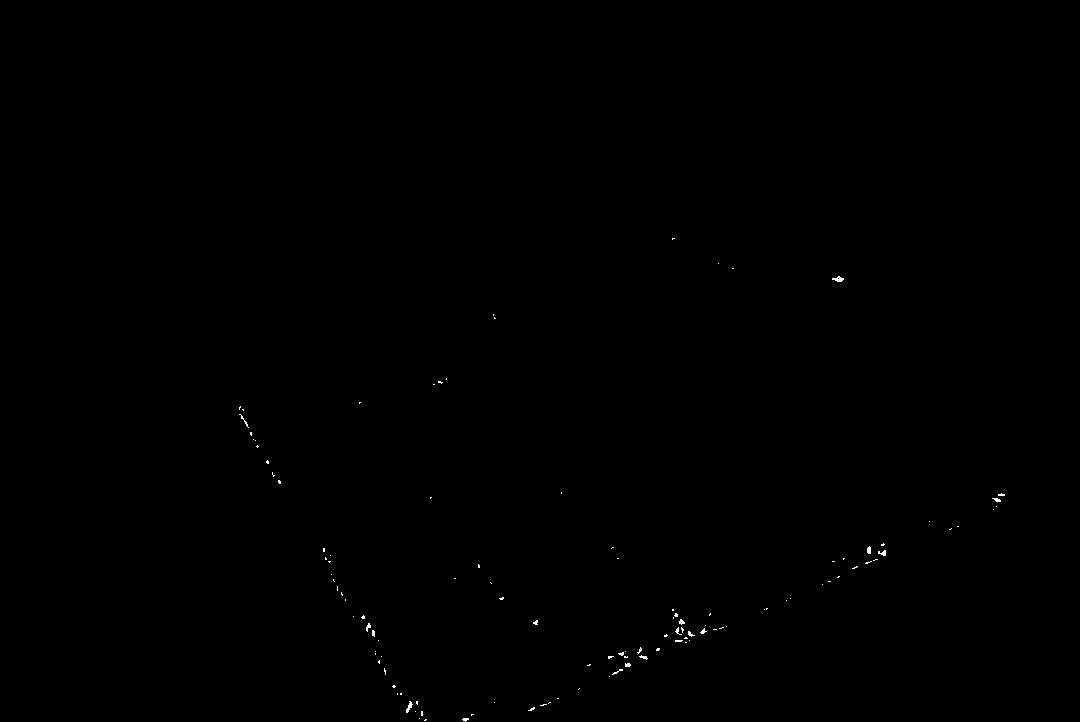
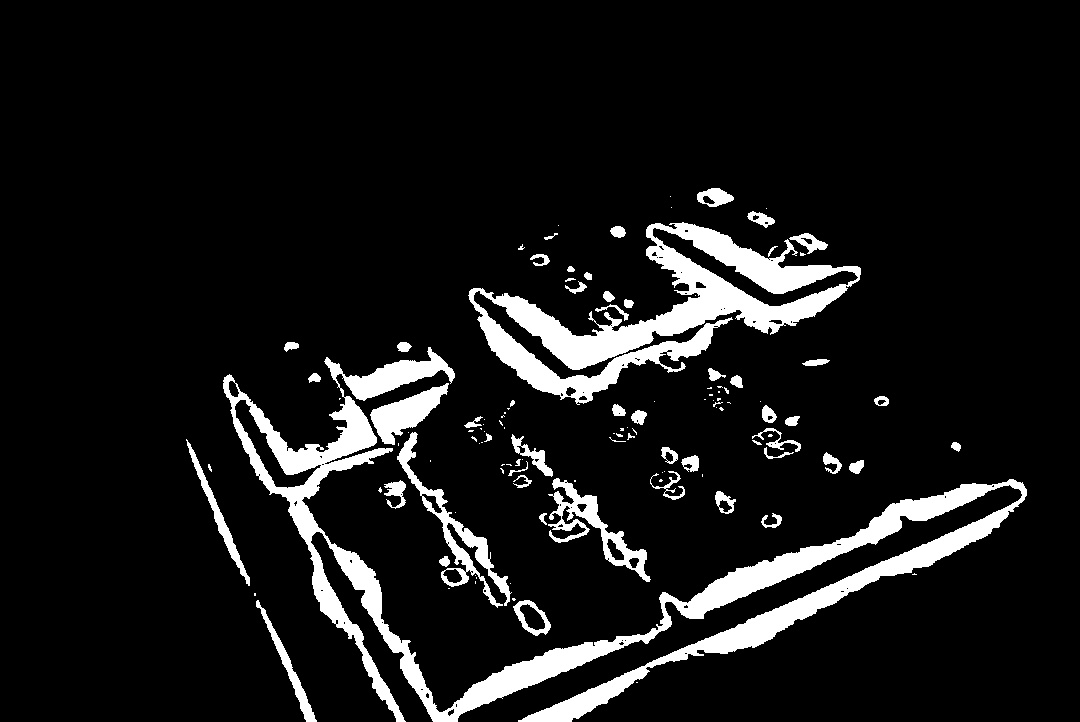
part#4
- adjust color range in HSV mode
- added yellow filter

diff --git a/Project.py b/Project.py
@@ -30,7 +30,7 @@ print("=========================================================================
 print("1.Press \"H\" key to switch the image to hsv mode\n")
 print("2.Press \"I\" key to print basic image info \n")
 print("3.Press \"L\" key key to rotate 90 degrees to left\n")
-print("4.Press \"R\" key to filter red;\n Press \"B\" key to filter blue;\n Press")
+print("4.Press \"R\" key to filter red;\n Press \"B\" key to filter blue;\n Press \"P\" key to filter purple;\n Press \"Y\" key to filter yellow;\n")
 print("5.Press \"esc\" key to exit the program")
 
 #function areas
@@ -79,8 +79,8 @@ elif key == ord("l"):
 elif key == ord("b"):
     cv2.destroyAllWindows()
     hsv = cv2.cvtColor(img,cv2.COLOR_BGR2HSV)
-    lower_blue = np.array([120,50,50])
-    upper_blue = np.array([150,255,255])
+    lower_blue = np.array([110,50,50])
+    upper_blue = np.array([130,255,255])
     mask = cv2.inRange(hsv,lower_blue,upper_blue)
     showResult(mask)
     storeResult(mask)
@@ -89,9 +89,19 @@ elif key == ord("b"):
 elif key == ord("r"):
     cv2.destroyAllWindows()
     hsv = cv2.cvtColor(img,cv2.COLOR_BGR2HSV)
-    lower_red = np.array([0,50,50])
-    upper_red = np.array([30,255,255])
+    lower_red = np.array([-10,50,50])
+    upper_red = np.array([10,255,255])
     mask = cv2.inRange(hsv,lower_red,upper_red)
+    showResult(mask)
+    storeResult(mask)
+
+    #filter yellow color in the image
+elif key == ord("y"):
+    cv2.destroyAllWindows()
+    hsv = cv2.cvtColor(img,cv2.COLOR_BGR2HSV)
+    lower_yellow = np.array([20,50,50])
+    upper_yellow = np.array([40,255,255])
+    mask = cv2.inRange(hsv,lower_yellow,upper_yellow)
     showResult(mask)
     storeResult(mask)
 
@@ -99,8 +109,8 @@ elif key == ord("r"):
 elif key == ord("g"):
     cv2.destroyAllWindows()
     hsv = cv2.cvtColor(img,cv2.COLOR_BGR2HSV)
-    lower_green = np.array([60,50,50])
-    upper_green = np.array([90,255,255])
+    lower_green = np.array([50,50,50])
+    upper_green = np.array([70,255,255])
     mask = cv2.inRange(hsv,lower_green,upper_green)
     showResult(mask)
     storeResult(mask)
